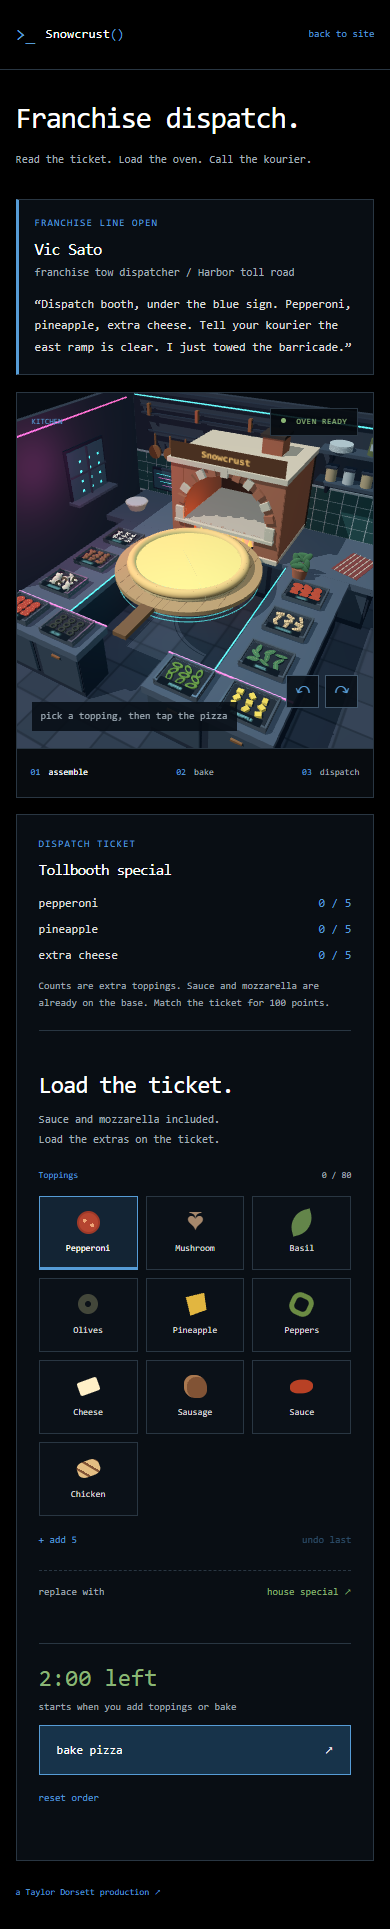
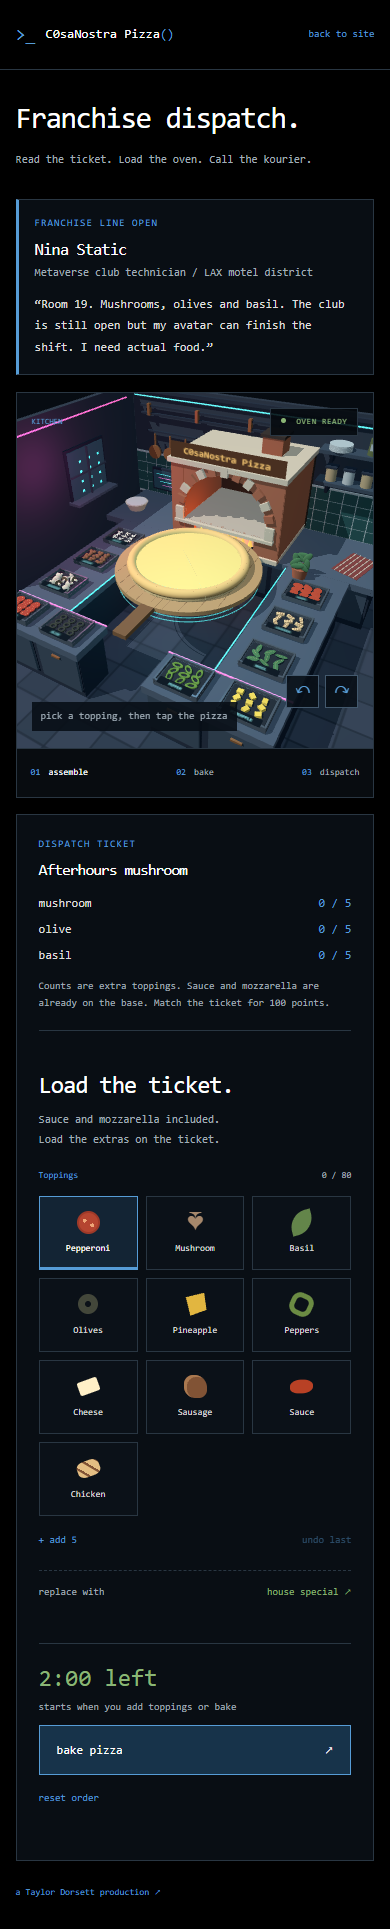
keep the restaurant name

diff --git a/courier.js b/courier.js
@@ -208,9 +208,9 @@ export function createCourier(scene) {
   for (const z of [6.2]) box(root, -5.96, 1.35, z, 0.04, 1.9, 1.2, glass);
   for (const z of [4.4, 6.2, 8]) box(root, -5.96, 4.6, z, 0.04, 1.35, 0.9, glass);
   box(root, -5.5, 2.65, 4.5, 1.1, 0.12, 2, steel);
-  const shopName = label(root, 'Snowcrust', 4.5, 0.7, -5.86, 3.5, 6, '#e4b76b');
+  const shopName = label(root, 'C0saNostra Pizza', 4.5, 0.7, -5.86, 3.5, 6, '#e4b76b');
   shopName.rotation.y = Math.PI / 2;
-  label(root, 'Snowcrust', 5, 0.7, -9, 3.5, 2.85, '#e4b76b');
+  label(root, 'C0saNostra Pizza', 5, 0.7, -9, 3.5, 2.85, '#e4b76b');
   // The pickup hatch belongs to the shop, leaving the street and rider path clear.
   box(root, -5.94, 1.65, pickup.z, 0.1, 1.15, 1.9, dark);
   box(root, -5.35, 1.15, pickup.z, 1.3, 0.12, 1.9, alloy);
@@ -332,7 +332,7 @@ export function createCourier(scene) {
   root.add(parcel);
   box(parcel, 0, 0, 0, 0.92, 0.13, 0.92, material('#bbae85'));
   box(parcel, 0, -0.06, 0, 0.94, 0.04, 0.94, trim);
-  const logo = label(parcel, 'Snowcrust', 0.75, 0.19, 0, 0.072, 0, '#ac4439', '#bbae85');
+  const logo = label(parcel, 'C0saNostra', 0.75, 0.19, 0, 0.072, 0, '#ac4439', '#bbae85');
   logo.rotation.x = -Math.PI / 2;
   box(parcel, 0, 0.075, 0, 0.045, 0.009, 0.95, bagMat);
   for (const x of [-0.35, 0.35])

diff --git a/index.html b/index.html
@@ -6,7 +6,7 @@
     <meta name="theme-color" content="#000000" />
     <meta
       name="description"
-      content="Snowcrust franchise dispatch. Take a call from the burbclaves, build the pizza and send a kourier into traffic."
+      content="Snowcrust: a C0saNostra Pizza dispatch terminal. Take a call from the burbclaves, build the pizza and send a kourier into traffic."
     />
     <title>Snowcrust | franchise dispatch</title>
     <link
@@ -20,9 +20,9 @@
   <body>
     <header class="header">
       <a class="wordmark" href="./" aria-label="Snowcrust home"
-        ><span class="brand-dot">&gt;_</span> Snowcrust<span class="period">()</span></a
+        ><span class="brand-dot">&gt;_</span> C0saNostra Pizza<span class="period">()</span></a
       >
-      <span class="header-note">franchise kitchen</span>
+      <span class="header-note">Snowcrust / franchise kitchen</span>
       <a class="home-link" href="https://www.taylordorsett.com/">back to site</a>
     </header>
     <main>

diff --git a/orders.js b/orders.js
@@ -16,7 +16,7 @@ export const customers = [
     job: 'freelance data kourier',
     neighborhood: 'Long Beach container stacks',
     pizza: 'Night shift chicken',
-    call: 'Snowcrust? Container 88, upper deck. Chicken, peppers and extra sauce. Knock twice. The doorbell belongs to a company I no longer work for.',
+    call: 'C0saNostra? Container 88, upper deck. Chicken, peppers and extra sauce. Knock twice. The doorbell belongs to a company I no longer work for.',
     toppings: { chicken: 5, pepper: 5, sauce: 1 }
   },
   {

diff --git a/pizza-oven.js b/pizza-oven.js
@@ -88,7 +88,7 @@ export function createPizzaOven(parent) {
   ctx.fillStyle = '#e8b96c';
   ctx.font = 'bold 66px monospace';
   ctx.textAlign = 'center';
-  ctx.fillText('Snowcrust', 384, 85);
+  ctx.fillText('C0saNostra Pizza', 384, 85);
   const texture = new THREE.CanvasTexture(canvas);
   texture.colorSpace = THREE.SRGBColorSpace;
   const sign = mesh(

diff --git a/README.md b/README.md
@@ -1,6 +1,6 @@
 # Snowcrust
 
-a Snowcrust franchise dispatch terminal. a customer calls from the franchise district, gives you an order and rates it after delivery. add toppings, fire the oven and send the courier.
+Snowcrust is the project. C0saNostra Pizza is the franchise you work for. a customer calls from the franchise district, gives you an order and rates it after delivery. add toppings, fire the oven and send the courier.
 
 call the courier after baking. she collects the box while rolling, skates up to the street and hooks a passing car. traffic keeps moving in both directions.
 
@@ -94,9 +94,9 @@ the minimatch override keeps the lint tools on its patched release. it is a deve
 
 ## where it fits
 
-keep it as a separate project at /one-more-slice/ with a pizza_delivery() link from the projects page. the homepage stays light. the game shares the site's colors and type, with a back home link.
+keep it as a separate project at /snowcrust/ with a pizza_delivery() link from the projects page. the homepage stays light. the game shares the site's colors and type, with a back home link.
 
-the public address stays the same so existing links keep working. Snowcrust is live at https://www.taylordorsett.com/one-more-slice/. changes deploy after merging to main.
+the project address is https://www.taylordorsett.com/snowcrust/. changes deploy after merging to main.
 
 the dist folder is the whole site. it works on static hosting. recipe links work once the site has a public address.
 
